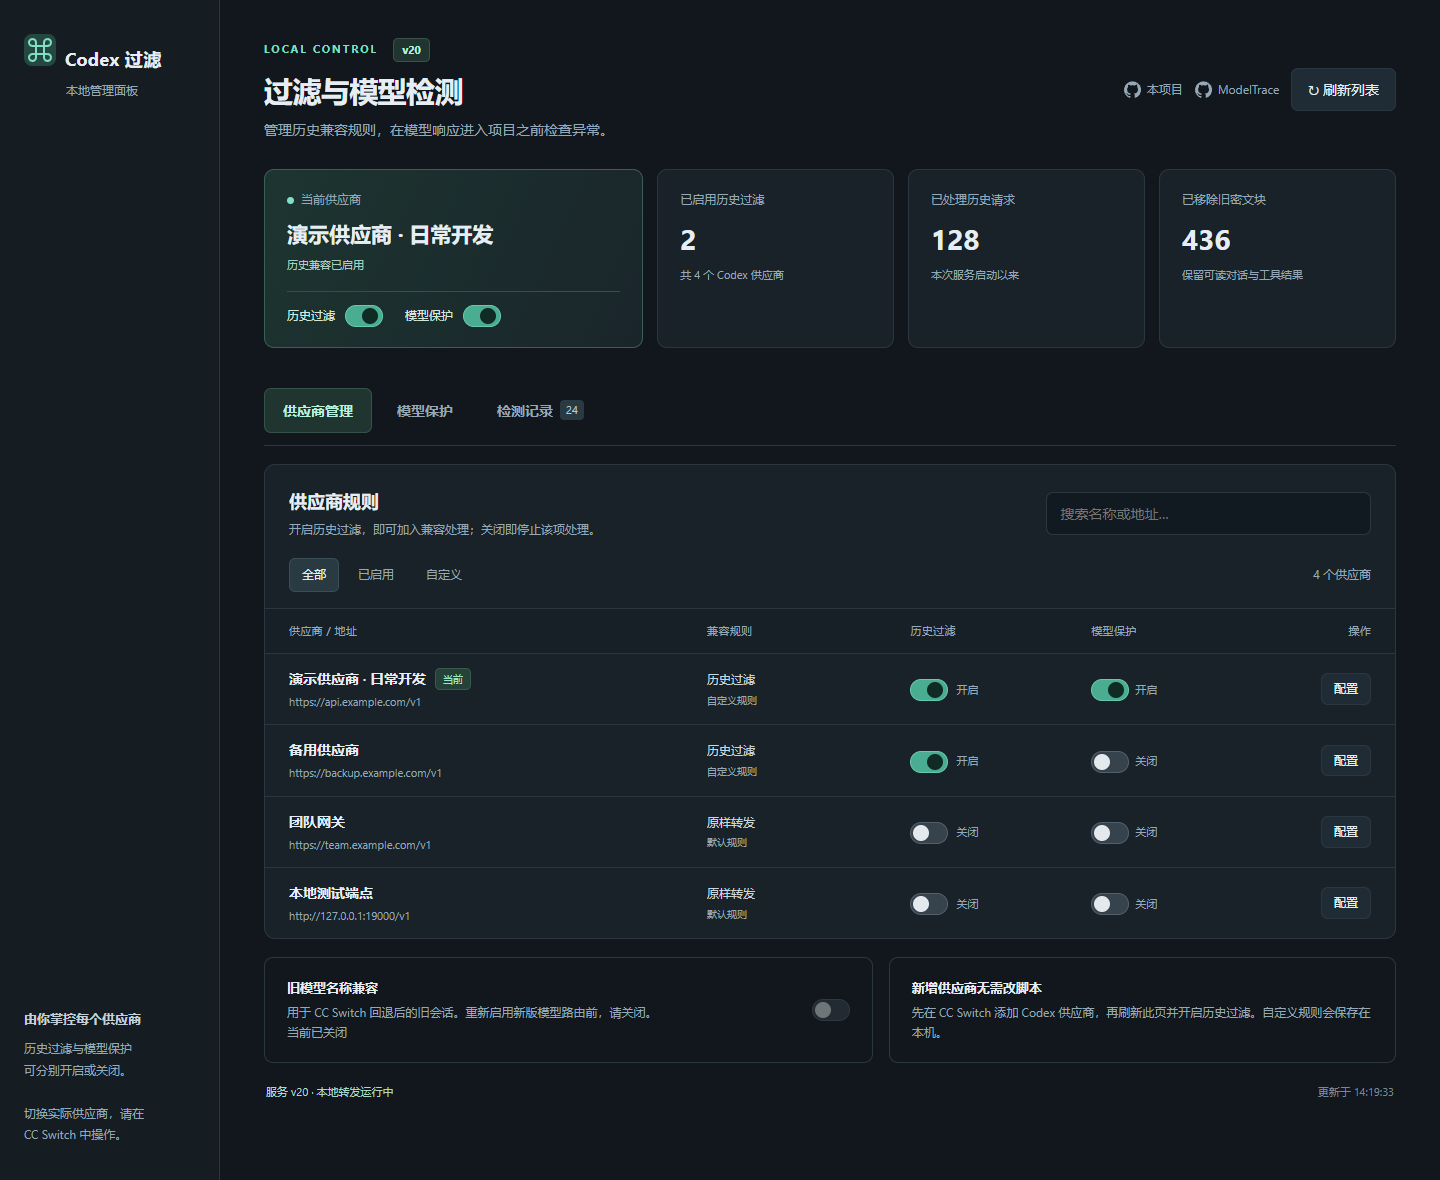
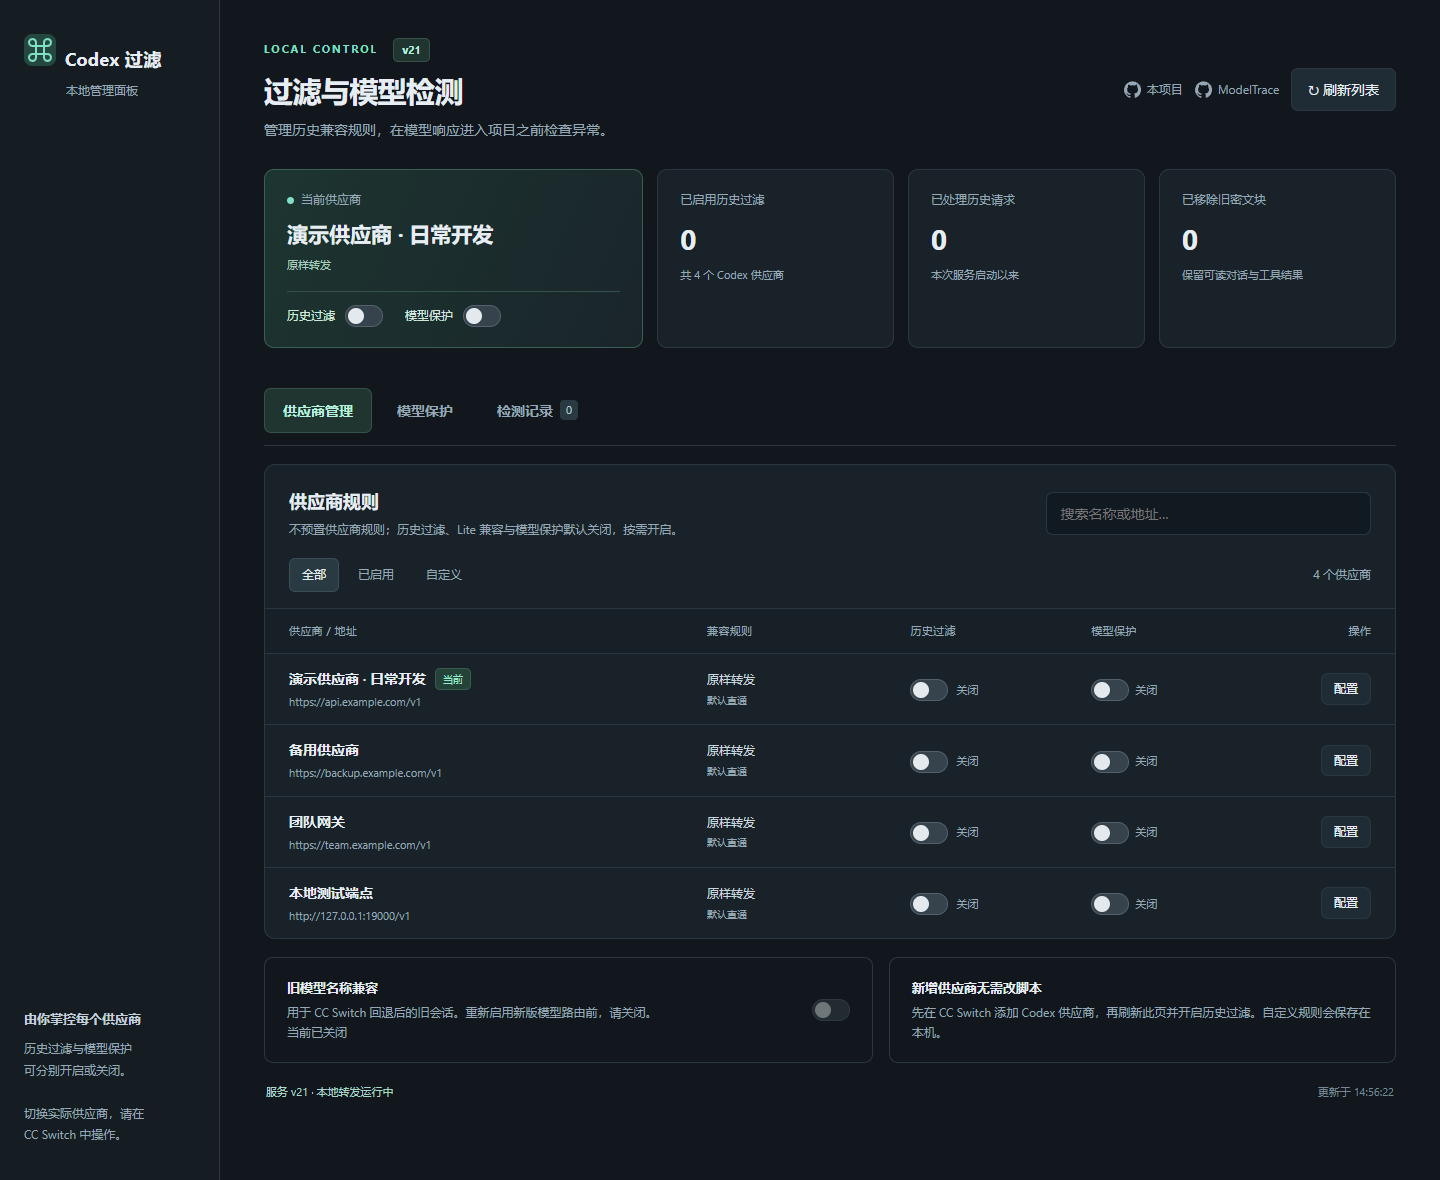
Default public installations to passthrough without supplier rules

diff --git a/dashboard.html b/dashboard.html
@@ -62,7 +62,7 @@ th:first-child{width:37%}th:nth-child(2){width:18%}th:nth-child(3){width:16%}th:
   </div>
   <div class="view-panel" id="providersView" role="tabpanel" aria-labelledby="viewProviders" tabindex="0">
   <section class="panel" aria-label="供应商规则">
-   <div class="panel-head"><div><h2>供应商规则</h2><p class="subtitle">开启历史过滤，即可加入兼容处理；关闭即停止该项处理。</p></div><input class="search" id="search" type="search" placeholder="搜索名称或地址…" aria-label="搜索供应商"></div>
+   <div class="panel-head"><div><h2>供应商规则</h2><p class="subtitle">不预置供应商规则；历史过滤、Lite 兼容与模型保护默认关闭，按需开启。</p></div><input class="search" id="search" type="search" placeholder="搜索名称或地址…" aria-label="搜索供应商"></div>
    <div class="toolbar"><div class="tabs" aria-label="供应商筛选"><button class="tab active" data-tab="all" aria-pressed="true">全部</button><button class="tab" data-tab="enabled" aria-pressed="false">已启用</button><button class="tab" data-tab="custom" aria-pressed="false">自定义</button></div><span class="count" id="count">加载中</span></div>
    <div class="table-wrap"><table><thead><tr><th>供应商 / 地址</th><th>兼容规则</th><th>历史过滤</th><th id="guardColumn">模型保护</th><th>操作</th></tr></thead><tbody id="providers"></tbody></table><div class="empty" id="empty" hidden>没有匹配的供应商</div></div>
   </section>
@@ -75,8 +75,8 @@ th:first-child{width:37%}th:nth-child(2){width:18%}th:nth-child(3){width:16%}th:
  <div class="drawer-head"><span class="eyebrow">PROVIDER SETTINGS</span><button class="button small" id="closeDrawer" aria-label="关闭设置">✕</button></div>
  <h2 class="drawer-title" id="drawerTitle"></h2><p class="endpoint" id="drawerEndpoint"></p><div class="settings">
   <label class="setting"><input id="historyFilter" type="checkbox"><span><strong>过滤历史加密内容</strong><small>处理切换供应商后的解密失败。保留可读消息、工具结果和调用配对；移除旧加密推理状态与历史密文块。</small></span></label>
-  <label class="setting"><input id="preserveEncryptedInclude" type="checkbox"><span><strong>保留新响应的加密内容请求</strong><small>建议开启。AnyRouter、UGQAI 等上游需要此选项。它不会保留已经过滤的旧密文。</small></span></label>
-  <label class="setting"><input id="stripResponsesLiteHeader" type="checkbox"><span><strong>HUB / Lite 协议兼容</strong><small>仅在上游提示 Lite 与 reasoning.context 不兼容时开启，或沿用 HUB 的默认规则。</small></span></label>
+  <label class="setting"><input id="preserveEncryptedInclude" type="checkbox"><span><strong>保留新响应的加密内容请求</strong><small>仅在历史过滤开启时生效。保留客户端对新响应密文的请求，不会保留已经过滤的旧密文。</small></span></label>
+  <label class="setting"><input id="stripResponsesLiteHeader" type="checkbox"><span><strong>Lite 协议兼容</strong><small>默认关闭。仅在上游提示 Lite 与 reasoning.context 不兼容时按需开启。</small></span></label>
  </div><div class="help">历史过滤无法迁移模型之前的内部推理状态。只有密文的压缩摘要会明确报错，避免静默丢失历史。原会话文件不会被修改。</div>
  <div class="actions"><button class="button primary" id="saveRule">保存设置</button><button class="button" id="disableRule">关闭全部兼容</button><button class="button" id="resetRule">恢复默认</button></div><p class="endpoint" style="margin-top:14px" id="drawerSource"></p>
  <section id="drawerGuard" class="guard-records"><h3>独立的模型保护设置</h3><label class="setting"><input id="drawerGuardEnabled" type="checkbox"><span><strong>开启降智检测与切断保护</strong><small>每次检测产生 3–6 次上游计费请求。保护期间会暂存完整响应，通过检查后再送达项目；不支持或无法验证的模型将被拦截。</small></span></label><div class="guard-options"><label for="drawerGuardTtl">检测间隔 <select id="drawerGuardTtl"><option value="0">每次请求</option><option value="60">1 分钟</option><option value="300">5 分钟</option><option value="600">10 分钟（默认）</option><option value="1800">30 分钟</option><option value="3600">60 分钟</option></select></label></div><p class="guard-detail" id="drawerGuardStatus" style="margin-top:12px"></p><div class="actions"><button class="button primary" id="saveGuard">保存模型保护</button></div><p class="guard-config-note" style="margin-top:10px">与历史过滤分别保存。恢复兼容默认规则不会更改模型保护。</p></section>
@@ -245,7 +245,7 @@ function renderRows() {
  for (const p of providers) {
   const tr = element('tr'); if (p.id === selectedId) tr.className = 'selected';
   const td = element('td'), name = element('div', null, 'provider-name'); name.append(element('span', p.name)); if (p.current) name.append(element('span','当前','pill green')); td.append(name, element('div',p.endpoint || '地址未配置 / 官方登录','endpoint'));
-  const rules = element('td'); rules.append(element('div',p.editable ? mode(p.rule) : '暂不支持配置','rule-label'),element('div',p.source === 'custom' ? '自定义规则' : '默认规则','rule-source'));
+  const rules = element('td'); rules.append(element('div',p.editable ? mode(p.rule) : '暂不支持配置','rule-label'),element('div',p.source === 'custom' ? '自定义规则' : '默认直通','rule-source'));
   const toggleCell = element('td'), toggle = element('button',null,'switch'); toggle.type='button'; toggle.setAttribute('role','switch'); toggle.setAttribute('aria-checked',String(p.rule.historyFilter)); toggle.setAttribute('aria-label',p.name+' 历史过滤'); toggle.disabled = busy || !p.editable; toggle.addEventListener('click',() => changeRule(p.id,{...p.rule,historyFilter:!p.rule.historyFilter},state.revision)); toggleCell.append(toggle,element('span',p.rule.historyFilter ? '开启' : '关闭','switch-label'));
   const guardCell=element('td',null,'guard-cell'), gp=guardPolicy(p.id), guardToggle=element('button',null,'switch'); guardCell.hidden=!state.guard; guardToggle.type='button';guardToggle.setAttribute('role','switch');guardToggle.setAttribute('aria-checked',String(gp.enabled));guardToggle.setAttribute('aria-label',p.name+' 模型保护');guardToggle.disabled=busy||!!state.guard?.error||(!p.editable&&!gp.enabled);guardToggle.addEventListener('click',()=>changeGuard(p.id,{...gp,enabled:!gp.enabled},false,guardRevision));guardCell.append(guardToggle,element('span',gp.enabled?'开启':'关闭','switch-label'));
   const locked=guardRecords(p.id).find(r=>r.status==='blocked'); if(locked)guardCell.append(element('div',gp.enabled?'有模型已锁定':'已关闭 · 保留锁定','rule-source'));
@@ -291,14 +291,14 @@ function changeGuard(id,policy,close=false,revision=state?.guard?.settingsRevisi
 function clearGuard(key) { if(key)return guardAction('/guard/clear','POST',{key},'锁定已清除；下次请求仍须重新检测通过'); }
 async function changeRule(id, rule, revision) {
  if(busy) return; setBusy(true);
- try { state=await api('/providers/'+encodeURIComponent(id)+'/rule',rule===null ? 'DELETE' : 'PUT',{rule,revision}); $('error').hidden=true; closeDrawer(); toast(rule===null ? '已恢复默认规则，下次请求生效' : '设置已保存，下次请求生效'); }
+ try { state=await api('/providers/'+encodeURIComponent(id)+'/rule',rule===null ? 'DELETE' : 'PUT',{rule,revision}); $('error').hidden=true; closeDrawer(); toast(rule===null ? '已恢复默认直通，模型保护设置不变' : '设置已保存，下次请求生效'); }
  catch(e) { toast(e.message,true); }
  finally { setBusy(false); }
 }
 function openDrawer(p) {
  selectedId=p.id; editRevision=state.revision; editGuardRevision=state.guard?.settingsRevision; focusBefore=document.activeElement;
  $('drawerTitle').textContent=p.name; $('drawerEndpoint').textContent=p.endpoint; keys.forEach(k=>$(k).checked=p.rule[k]);
- $('drawerSource').textContent=p.source==='custom' ? '此供应商正在使用你保存的规则。' : '此供应商正在使用内置默认规则。';
+ $('drawerSource').textContent=p.source==='custom' ? '此供应商正在使用你保存的规则。' : '此供应商未设置兼容规则，默认原样转发。模型保护独立设置。';
  $('drawerGuard').hidden=!state.guard; const gp=guardPolicy(p.id); $('drawerGuardEnabled').checked=gp.enabled;selectTtl('drawerGuardTtl',gp.ttlSeconds);$('drawerGuardStatus').textContent=p.current ? '此供应商当前正在使用，可在主页发起手动检测。' : '保存后待切换到此供应商生效；手动检测仅适用于当前供应商。';
  $('drawer').hidden=false; renderRows(); $('closeDrawer').focus();
 }

diff --git a/dashboard-check.py b/dashboard-check.py
@@ -16,7 +16,7 @@ const {createManagement}=require('./management.cjs');
 const runtime=process.argv[1],databasePath=path.join(runtime,'mock.db');
 const db=new DatabaseSync(databasePath);
 db.exec("PRAGMA user_version=19; CREATE TABLE providers(id TEXT,name TEXT,app_type TEXT,is_current INTEGER,settings_config TEXT,sort_index INTEGER); CREATE TABLE proxy_config(app_type TEXT,auto_failover_enabled INTEGER); INSERT INTO proxy_config VALUES('codex',0)");
-const providers=[['gugu','演示供应商-Codex','https://gugu.example',1],['ugq','备用供应商-Codex','https://backup.example',0],['agent','Agent Router','https://agentrouter.org',0],['hub','HUB站','https://hub.oaifree.com',0],['unsafe','<img src=x onerror=alert(1)>','https://example.com',0]];
+const providers=[['gugu','演示供应商-Codex','https://gugu.example',1],['ugq','备用供应商-Codex','https://backup.example',0],['agent','团队供应商','https://team.example',0],['hub','测试供应商','https://test.example',0],['unsafe','<img src=x onerror=alert(1)>','https://example.com',0]];
 for(const [id,name,url,current] of providers) db.prepare('INSERT INTO providers VALUES(?,?,?,?,?,0)').run(id,name,'codex',current,JSON.stringify({config:'model_provider="custom"\n[model_providers.custom]\nbase_url='+JSON.stringify(url)}));
 db.close();
 fs.writeFileSync(path.join(runtime,'legacy-model-aliases.json'),JSON.stringify({enabled:true,databaseVersion:19,aliases:[['ccs-old/gpt-6-astra','gpt-6-astra']]}));
@@ -46,6 +46,9 @@ with tempfile.TemporaryDirectory(prefix='codex-filter-ui-') as scratch:
             expect(page.locator('#viewHistory')).to_be_hidden()
             expect(page.locator('#guardEnabled')).to_be_hidden()
             expect(page.locator('#currentHistoryEnabled')).to_have_attribute('aria-checked', 'false')
+            expect(page.locator('#providers .rule-label')).to_have_text(['原样转发'] * 5)
+            expect(page.locator('#providers .rule-source')).to_have_text(['默认直通'] * 5)
+            assert not (Path(scratch) / 'provider-rules.json').exists()
             assert page.locator('#error').is_hidden()
             assert page.locator('#current').inner_text() == '演示供应商-Codex'
             assert page.locator('#providers img').count() == 0
@@ -69,7 +72,8 @@ with tempfile.TemporaryDirectory(prefix='codex-filter-ui-') as scratch:
             page.get_by_role('button', name='配置', exact=True).click()
             page.get_by_role('button', name='恢复默认', exact=True).click()
             expect(page.locator('#drawer')).to_be_hidden()
-            expect(page.locator('#providers .rule-source')).to_have_text('默认规则')
+            expect(page.locator('#providers .rule-source')).to_have_text('默认直通')
+            expect(page.locator('#currentHistoryEnabled')).to_have_attribute('aria-checked', 'false')
             assert 'gugu' not in json.loads(rules_path.read_text())['providers']
             page.locator('#currentHistoryEnabled').click()
             expect(page.locator('#currentHistoryEnabled')).to_have_attribute('aria-checked', 'true')
@@ -82,7 +86,8 @@ with tempfile.TemporaryDirectory(prefix='codex-filter-ui-') as scratch:
             expect(page.get_by_role('switch', name='旧模型名称兼容', exact=True)).to_have_attribute('aria-checked','false')
             page.get_by_role('searchbox', name='搜索供应商').fill('')
             page.get_by_role('button', name='已启用', exact=True).click()
-            assert page.locator('#providers tr').count() == 2
+            expect(page.locator('#providers tr')).to_have_count(0)
+            expect(page.locator('#empty')).to_be_visible()
             page.get_by_role('button', name='全部', exact=True).click()
             output = root / '.runtime'
             output.mkdir(exist_ok=True)

diff --git a/scripts/screenshots.py b/scripts/screenshots.py
@@ -1,5 +1,6 @@
 """Generate documentation screenshots using synthetic providers, never live state."""
 from pathlib import Path
+from copy import deepcopy
 from datetime import datetime, timezone, timedelta
 import json
 import os
@@ -26,6 +27,12 @@ state = {'providers': providers, 'revision': 'demo-revision', 'currentPolicy': {
     'aliasCompatibility': {'configured': False, 'enabled': False, 'activeCount': 0},
     'filter': {'filterVersion': version, 'state': 'filtering', 'stats': {'filteredRequests': 128, 'removedEncryptedContentItems': 436}},
     'guard': {'models': ['gpt-6-astra', 'gpt-6-sol'], 'providers': {'demo-main': {'enabled': True, 'ttlSeconds': 1800}}, 'settingsRevision': 'demo-guard', 'records': [record], 'history': history, 'historyLimit': 100, 'current': {'providerId': 'demo-main', 'model': record['model'], 'effort': record['effort'], 'available': True, 'key': record['key']}}}
+configured_state = deepcopy(state)
+for provider in state['providers']:
+    provider.update(source='default', rule=deepcopy(off))
+state['currentPolicy'] = {'filter': False}
+state['filter']['stats'] = {'filteredRequests': 0, 'removedEncryptedContentItems': 0}
+state['guard'].update(providers={}, records=[], history=[])
 with sync_playwright() as p:
     browser = p.chromium.launch(headless=True, **({'executable_path': os.environ['CHROME_PATH']} if os.environ.get('CHROME_PATH') else {}))
     page = browser.new_page(viewport={'width': 1440, 'height': 1180}, timezone_id='Asia/Shanghai', device_scale_factor=1)
@@ -48,6 +55,13 @@ with sync_playwright() as p:
     expect(page.locator('#current')).to_have_text(providers[0]['name'])
     expect(page.locator('a.github-link')).to_have_count(2)
     for view in ['providers', 'protection', 'history']:
+        if view == 'protection':
+            state = configured_state
+            page.locator('#refresh').click()
+            expect(page.locator('#guardEnabled')).to_have_attribute('aria-checked', 'true')
+        elif view == 'providers':
+            expect(page.locator('#currentHistoryEnabled')).to_have_attribute('aria-checked', 'false')
+            expect(page.locator('#guardEnabled')).to_have_attribute('aria-checked', 'false')
         page.locator('[data-view="' + view + '"]').click()
         page.evaluate('window.scrollTo(0,0)')
         page.screenshot(path=str(output / (view + '.png')))

diff --git a/guard-dashboard-check.py b/guard-dashboard-check.py
@@ -94,6 +94,9 @@ with sync_playwright() as p:
     expect(page.locator("#providersView")).to_have_attribute("role", "tabpanel")
     expect(page.locator("#currentHistoryEnabled")).to_be_visible()
     expect(page.locator("#guardEnabled")).to_be_visible()
+    expect(page.locator("#currentHistoryEnabled")).to_have_attribute("aria-checked", "false")
+    expect(page.locator("#guardEnabled")).to_have_attribute("aria-checked", "false")
+    assert not any(call[0] != "GET" for call in calls), "Loading the UI must not enable settings or run probes"
     before_navigation_writes = len([call for call in calls if call[0] != "GET"])
     page.locator("#viewProviders").focus()
     page.keyboard.press("ArrowRight")
